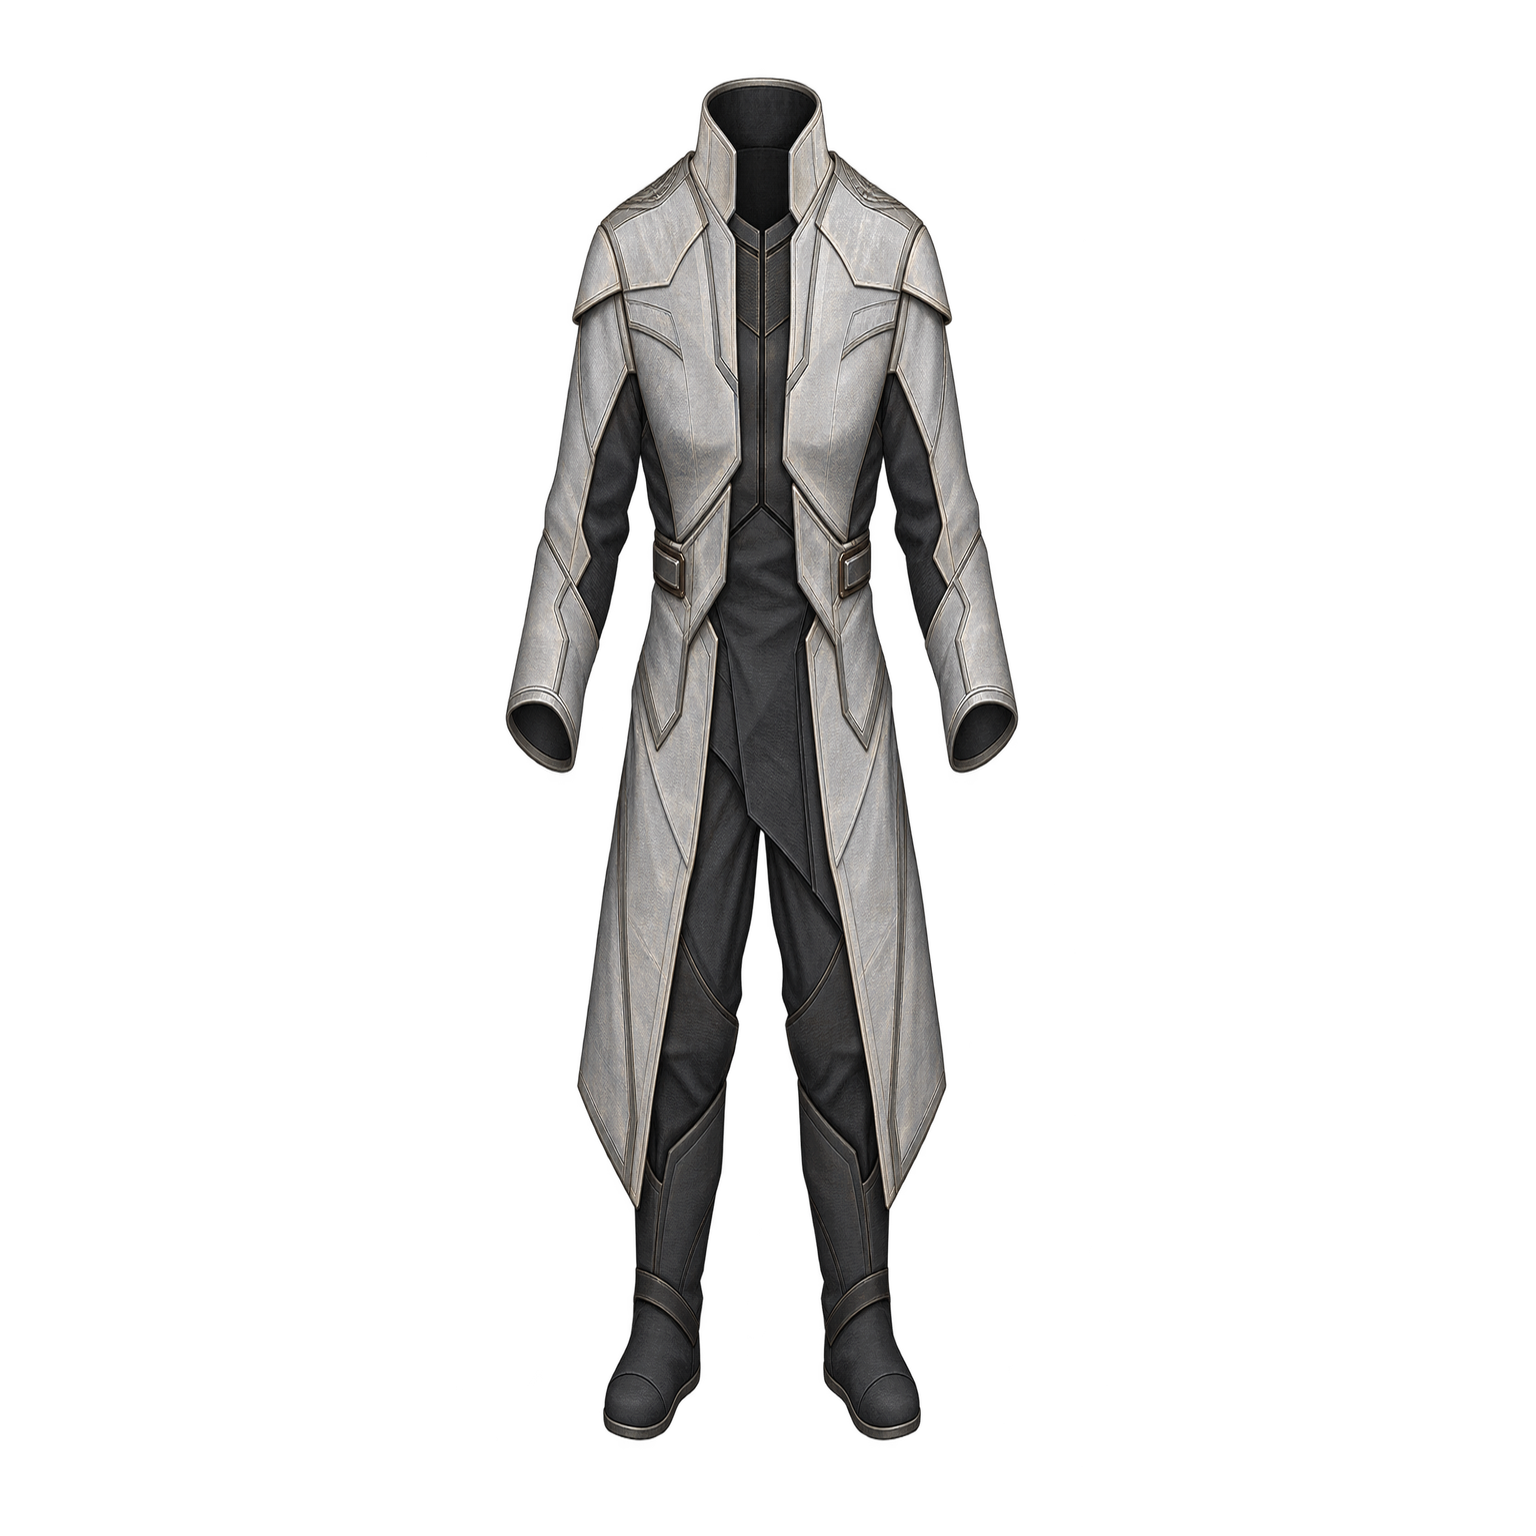
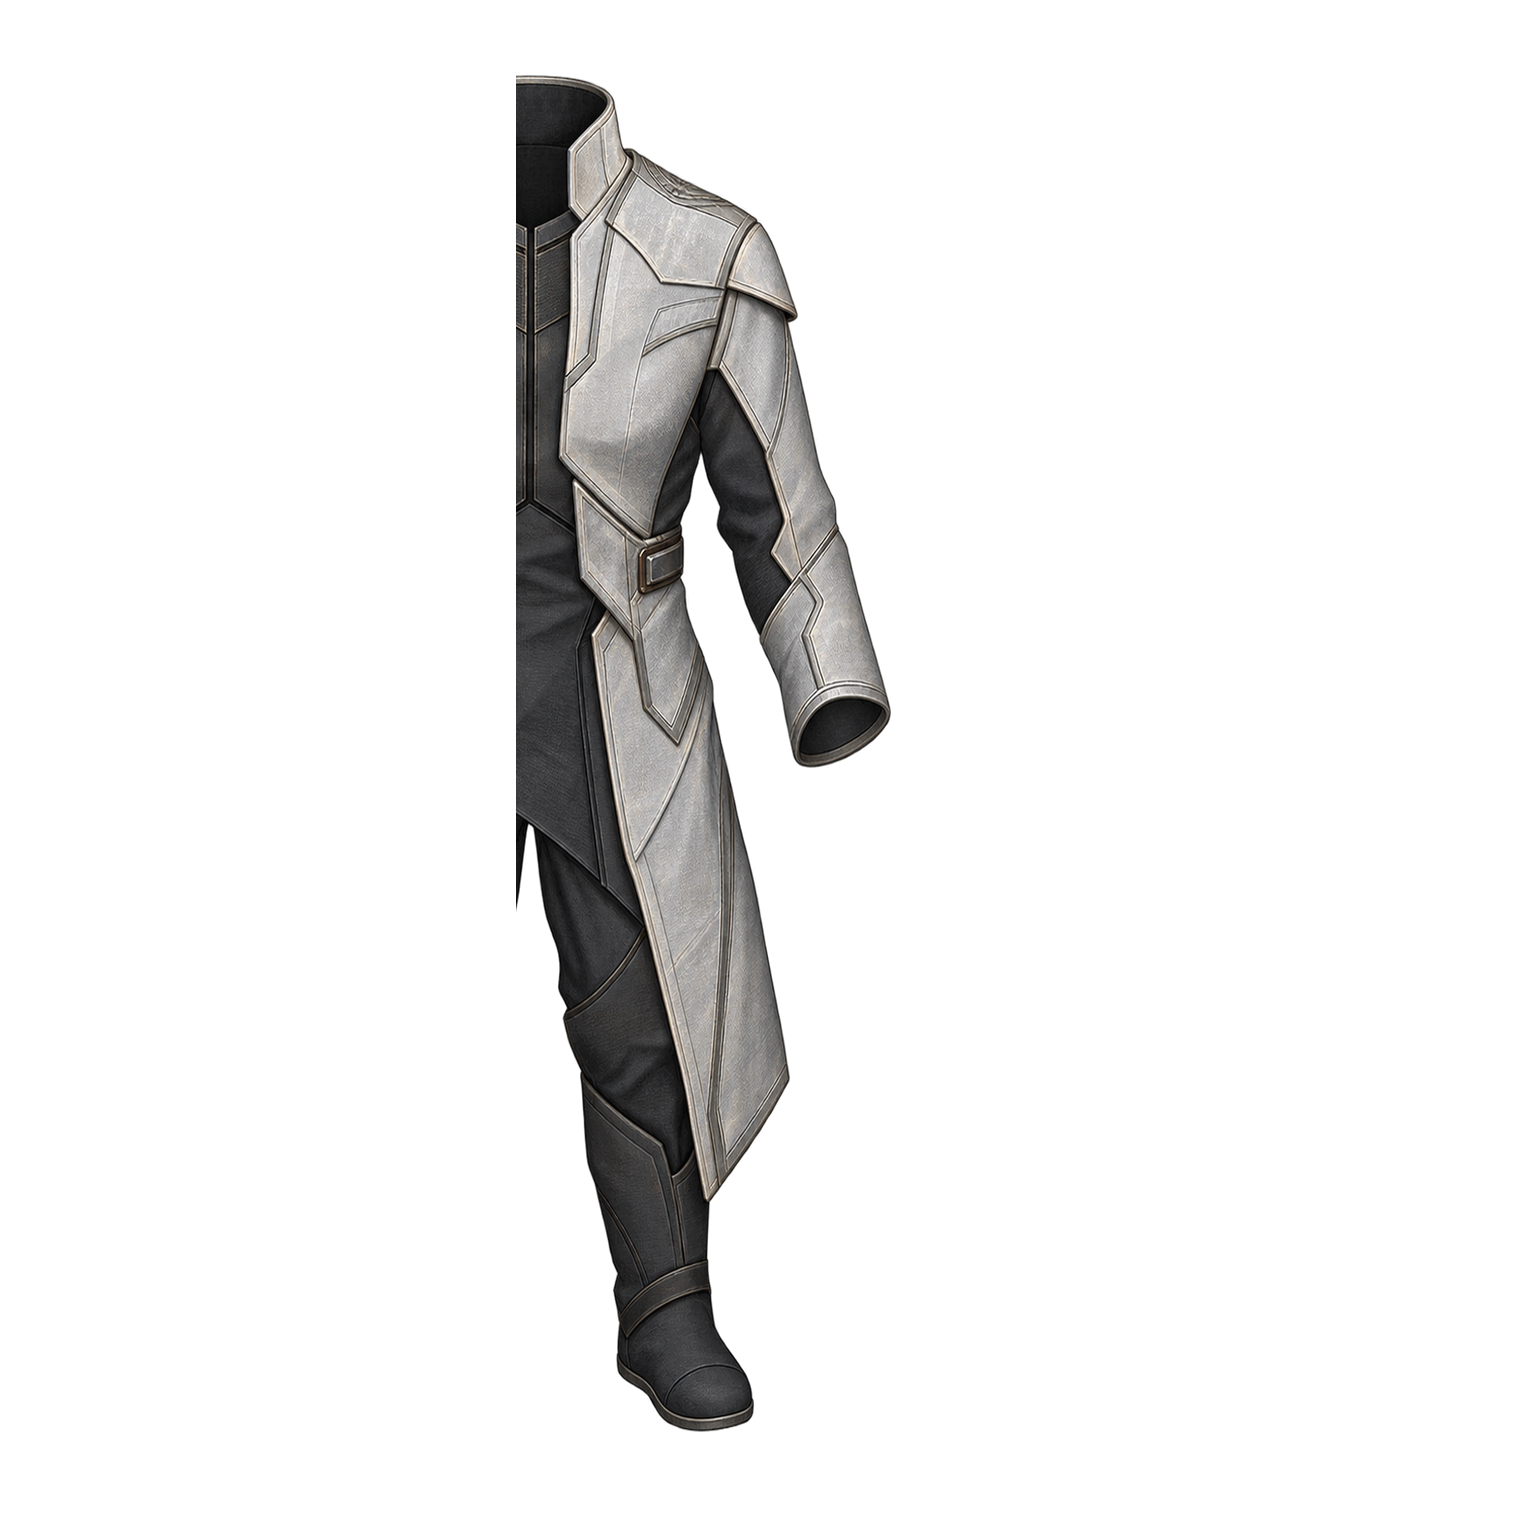
Refit Human-Form Uniform to vanilla pawn coverage without distorting art

Changed region(s): [[0.3125, 0.0312, 0.6875, 0.9375]]

diff --git a/Tools/ApparelForge/apparel_forge.py b/Tools/ApparelForge/apparel_forge.py
@@ -43,7 +43,7 @@ def deform_mask(base: Image.Image, body_dir: Path, body: str, direction: str) ->
     out.paste(crop,(round(acx+(tcx-mcx)-crop.width/2),round(acy+(tcy-mcy)-crop.height/2)))
     return out
 
-def fit_master(master: Image.Image, target_mask: Image.Image) -> Image.Image:
+def fit_master(master: Image.Image, target_mask: Image.Image, preserve_ratio: bool=False) -> Image.Image:
     """Content-preserving projection only.
 
     This function never invents or paints costume detail. It rescales a finished
@@ -56,11 +56,18 @@ def fit_master(master: Image.Image, target_mask: Image.Image) -> Image.Image:
     if not sb or not tb: raise RuntimeError("empty source or target")
     crop=src.crop(sb)
     tw,th = tb[2]-tb[0], tb[3]-tb[1]
-    # preserve painted proportions as much as possible; small controlled anisotropy
-    # is allowed solely to adapt the master to RimWorld body variants.
-    fitted=crop.resize((tw,th),Image.Resampling.LANCZOS)
+    if preserve_ratio:
+        # Keep the finished master's proportions intact. Scale to cover the vanilla
+        # silhouette, center it, then clip to the authoritative mask.
+        scale=max(tw/max(1,crop.width),th/max(1,crop.height))
+        nw=max(1,round(crop.width*scale)); nh=max(1,round(crop.height*scale))
+        fitted=crop.resize((nw,nh),Image.Resampling.LANCZOS)
+        x=tb[0]+(tw-nw)//2; y=tb[1]+(th-nh)//2
+    else:
+        fitted=crop.resize((tw,th),Image.Resampling.LANCZOS)
+        x,y=tb[0],tb[1]
     out=Image.new("RGBA",(HI,HI),(0,0,0,0))
-    out.alpha_composite(fitted,(tb[0],tb[1]))
+    out.alpha_composite(fitted,(x,y))
     out.putalpha(ImageChops.multiply(out.getchannel("A"),target_mask))
     return out
 
@@ -161,7 +168,7 @@ def run(profile: dict, vanilla_dir: Path, body_dir: Path, workdir: Path):
     # Finished external master -> body/facing variants. No repainting occurs here.
     for body in profile["rimworld"]["body_types"]:
         for d in ("south","north","east"):
-            hi=fit_master(masters[d].resize((HI,HI),Image.Resampling.LANCZOS),masks[body][d])
+            hi=fit_master(masters[d].resize((HI,HI),Image.Resampling.LANCZOS),masks[body][d],bool(profile["rimworld"].get("preserve_master_ratio",False)))
             im=hi.resize((OUT,OUT),Image.Resampling.LANCZOS)
             name=f"{item}_{body}_{d}.png"; im.save(outdir/name); result[name]=im
             if d=="east":
@@ -177,7 +184,7 @@ def run(profile: dict, vanilla_dir: Path, body_dir: Path, workdir: Path):
     # Inventory derives only from the finished south master, never generated shading.
     tile_mask=masks["Male"]["south"]
     tb=tile_mask.getbbox()
-    crop=fit_master(masters["south"].resize((HI,HI),Image.Resampling.LANCZOS),tile_mask).crop(tb)
+    crop=fit_master(masters["south"].resize((HI,HI),Image.Resampling.LANCZOS),tile_mask,bool(profile["rimworld"].get("preserve_master_ratio",False))).crop(tb)
     scale=float(profile["rimworld"].get("tile_scale",.78))
     crop=crop.resize((round(crop.width*scale),round(crop.height*scale)),Image.Resampling.LANCZOS)
     tile=Image.new("RGBA",(HI,HI),(0,0,0,0))
